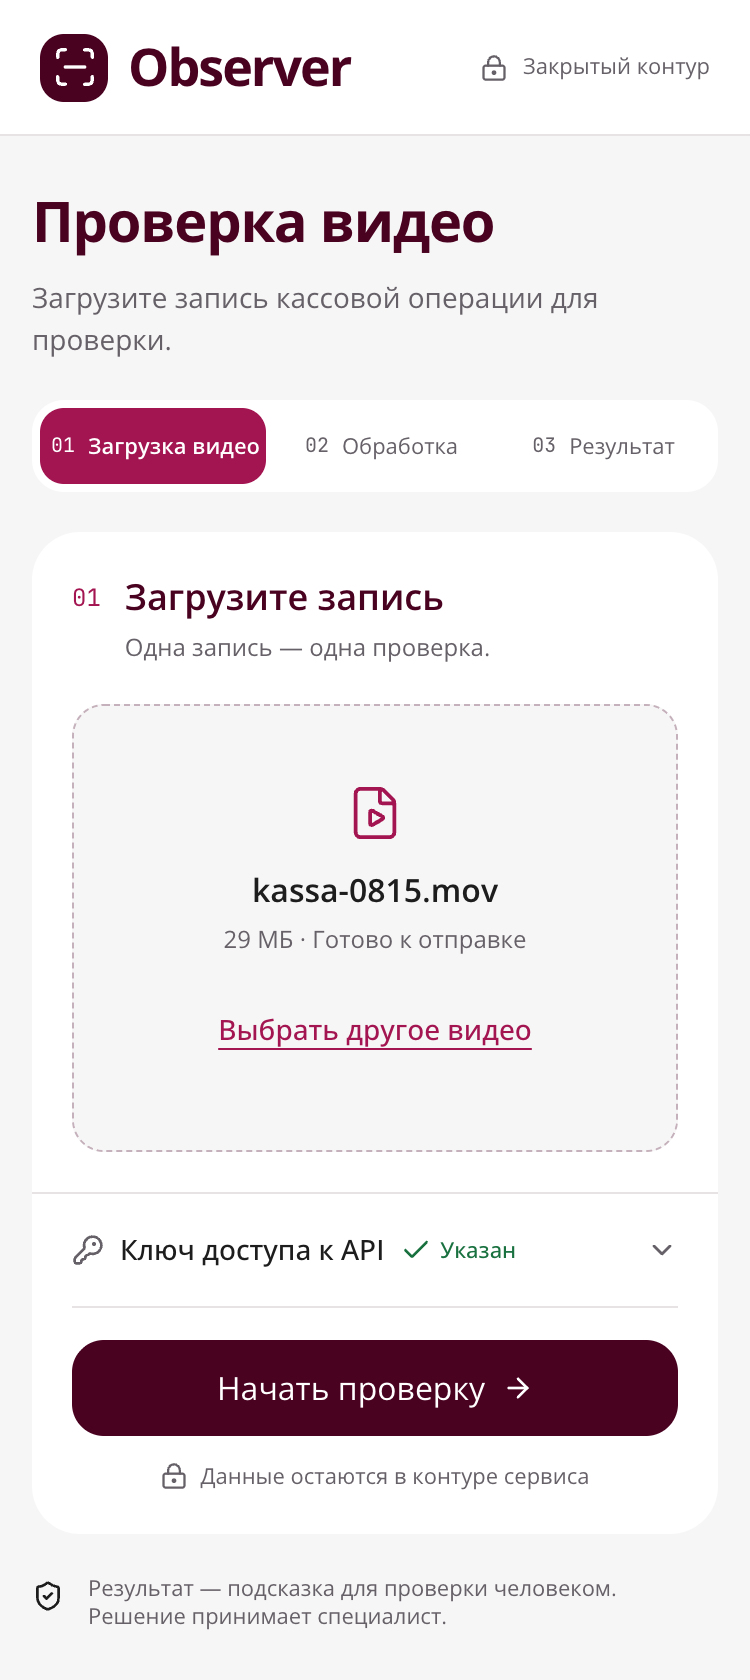
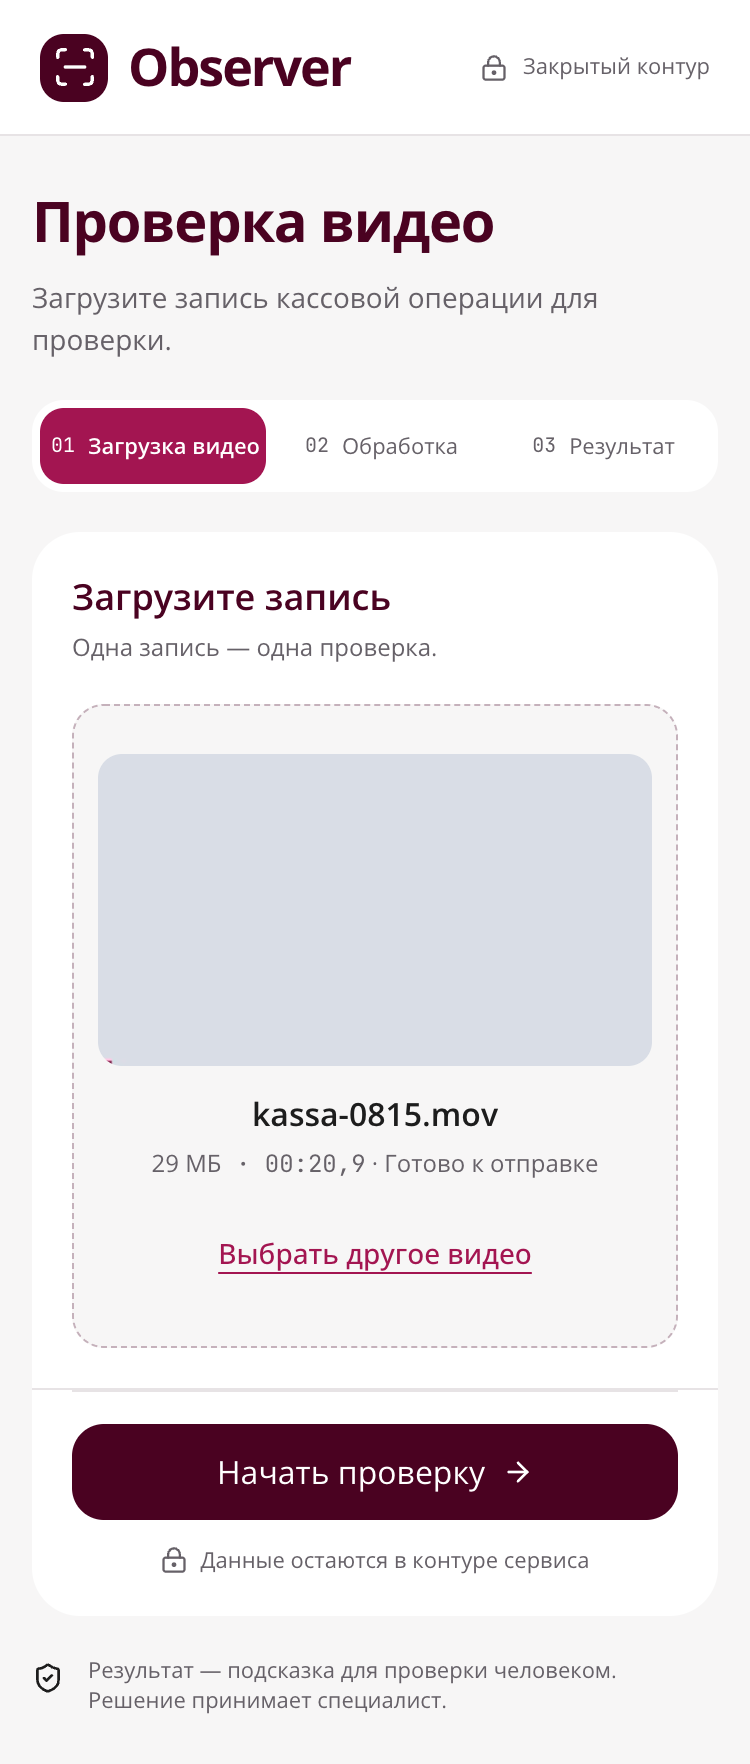
docs(web): скриншоты и приёмка сценария проверяющего; fix: мобильные правила после основных, печать без подсветки и пустых полей

diff --git a/frontend/src/styles.css b/frontend/src/styles.css
@@ -595,30 +595,6 @@
     border: 0;
   }
   @media (max-width: 600px) {
-    .how-steps {
-      grid-template-columns: minmax(0, 1fr);
-    }
-    .event-body {
-      grid-template-columns: minmax(0, 1fr);
-      gap: 16px;
-    }
-    .evidence-image {
-      height: 200px;
-    }
-    .timeline-row {
-      grid-template-columns: minmax(0, 1fr);
-      gap: 4px;
-      padding-top: 4px;
-    }
-    .timeline-actions {
-      grid-column: 1;
-    }
-    .timeline-scale {
-      margin-left: 0;
-    }
-    .event-nav .small-note {
-      display: none;
-    }
     .result-banner {
       gap: 12px;
       padding: 18px;
@@ -1288,5 +1264,46 @@
     border: 0;
     padding: 0;
     resize: none;
+  }
+  .review-comment:placeholder-shown,
+  .page-intro p {
+    display: none;
+  }
+  .event-card.event-current {
+    border-color: var(--border);
+    box-shadow: none;
+    background: var(--card);
+  }
+  .review-decision .print-only {
+    display: inline;
+    margin: 0;
+  }
+}
+
+/* Мобильные переопределения после основных правил, иначе порядок в файле их перебивает. */
+@media (max-width: 600px) {
+  .how-steps {
+    grid-template-columns: minmax(0, 1fr);
+  }
+  .event-body {
+    grid-template-columns: minmax(0, 1fr);
+    gap: 16px;
+  }
+  .evidence-image {
+    height: 200px;
+  }
+  .timeline-row {
+    grid-template-columns: minmax(0, 1fr);
+    gap: 4px;
+    padding-top: 4px;
+  }
+  .timeline-actions {
+    grid-column: 1;
+  }
+  .timeline-scale {
+    margin-left: 0;
+  }
+  .event-nav .small-note {
+    display: none;
   }
 }

diff --git a/frontend/src/components/ReviewDecision.tsx b/frontend/src/components/ReviewDecision.tsx
@@ -31,6 +31,7 @@ export function ReviewDecision({
   return (
     <div className="review-decision" role="group" aria-label="Решение проверяющего">
       <span className="review-caption">Ваше решение</span>
+      {!decision && <span className="print-only">не принято</span>}
       <div className="review-options">
         {OPTIONS.map(({ verdict, label, pressed }) => (
           <Button

diff --git a/docs/frontend/acceptance.md b/docs/frontend/acceptance.md
@@ -402,3 +402,23 @@ expected-main-assets, frontend-http, jobs-audit); `/private/tmp/guardtusk-f6-ml-
 Скриншоты в `docs/frontend/screenshots/` сняты на моках `mock_details*.json` и однотонном
 демо-видео `frontend/dev/demo-preview.mp4` (локальный mock backend с `mode: pipeline`,
 `degraded: false`), а не на реальной записи. Кадров и роликов датасета в них нет.
+
+<div align="center">
+
+## Сценарий проверяющего, 18.10.2026
+
+</div>
+
+Ветка `frontend-review` от `origin/main` (fc6a4b0), прототип согласован с пользователем.
+
+- [x] Номер задачи в адресе (`?job=`): перезагрузка во время обработки продолжает опрос, результат открывается по ссылке, «Скопировать ссылку».
+- [x] Лента времени: события и состояния на одной шкале с общим курсором; цветом нарушения выделено только пересечение; кнопки интервалов остаются отдельными элементами (микроинтервалы).
+- [x] «← Предыдущее / Следующее событие →» и клавиши `[` `]`: переход на t−1 с с подсветкой карточки.
+- [x] Карточка: крупный кадр + миниатюры, «Что видно / Почему / Норматив» справа на десктопе, шкала уверенности.
+- [x] Решение проверяющего по каждой находке («Нарушение подтверждаю / Не нарушение / Не уверен» + комментарий), счётчик «Проверено N из M»; хранится в браузере по номеру задачи.
+- [x] «Отчёт / PDF»: печатная версия без плеера и ленты, с решениями и комментариями.
+- [x] Загрузка: три шага «как проходит проверка», миниатюра и длительность файла из браузера (если формат декодируется). «Результат проверки» с именем файла или номером задачи; без номеров секций.
+- [x] dev: `/ui/v1` в demo-api и прокси Vite (UI без ключа, FAQ 27).
+
+Список типов нарушений в интерфейс не добавлен: он живёт в `ml/catalog.yaml`, и часть правил там выключена.
+Оценка «обычно N минут» не добавлена до замера на реальном стенде. Скриншоты сняты на моках и однотонном демо-видео.
